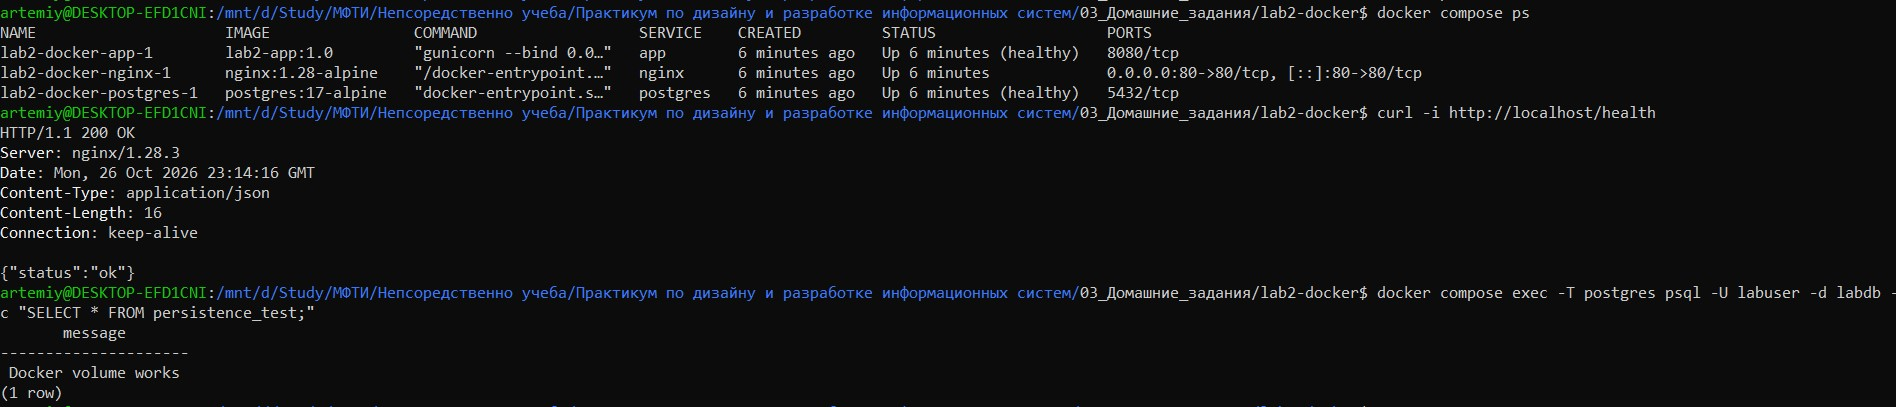
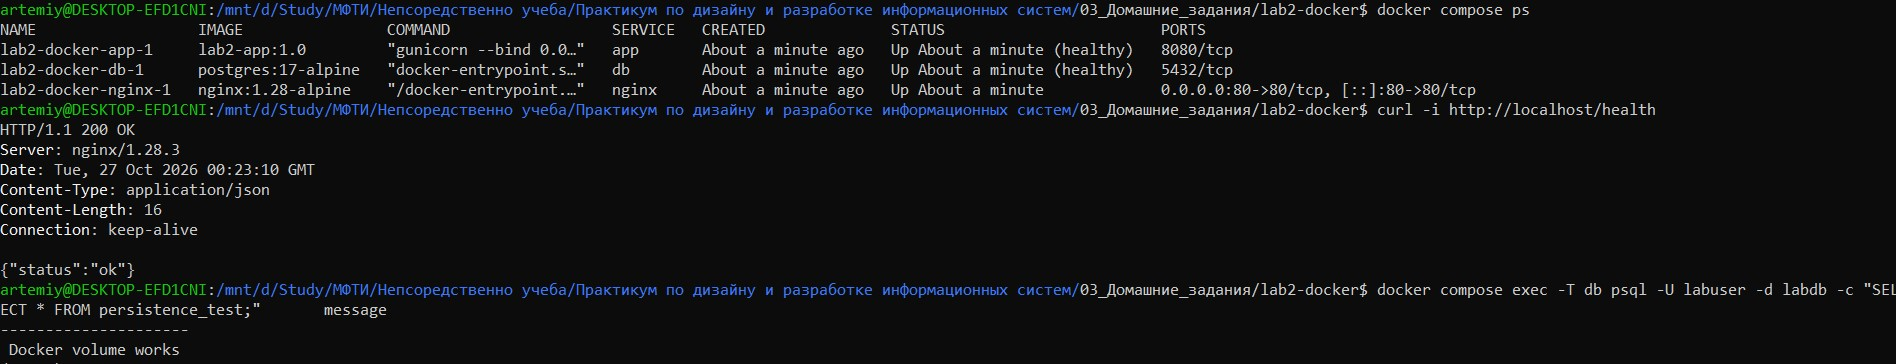
Update lab 2

diff --git a/README.md b/README.md
@@ -57,7 +57,7 @@ PostgreSQL находится во внутренней сети backend.
 
 Создать таблицу и запись:
 
-docker compose exec -T postgres psql -U labuser -d labdb -c "CREATE TABLE IF NOT EXISTS persistence_test (message TEXT NOT NULL); INSERT INTO persistence_test VALUES ('Docker volume works');"
+docker compose exec -T db psql -U labuser -d labdb -c "CREATE TABLE IF NOT EXISTS persistence_test (message TEXT NOT NULL); INSERT INTO persistence_test VALUES ('Docker volume works');"
 
 Пересоздать контейнеры:
 
@@ -66,7 +66,7 @@ docker compose up -d
 
 Проверить сохранность записи:
 
-docker compose exec -T postgres psql -U labuser -d labdb -c "SELECT * FROM persistence_test;"
+docker compose exec -T db psql -U labuser -d labdb -c "SELECT * FROM persistence_test;"
 
 Данные сохраняются в именованном томе pgdata.
 
@@ -78,10 +78,39 @@ docker login
 
 Запустить скрипт:
 
-./build-and-push.sh <dockerhub-user>/lab2-app:1.0
+./build-and-push.sh YOUR_DOCKERHUB_USERNAME/lab2-app:1.0
 
 ## Остановка
 
 docker compose down
 
 Команда не удаляет именованный том с данными.
+
+## Проверка Docker #1 — запуск отдельного контейнера
+
+Собрать образ:
+
+```bash
+docker build -t lab2-app:1.0 .
+```
+
+Запустить приложение без Docker Compose:
+
+```bash
+docker run --rm -d --name lab2-standalone -p 8080:8080 lab2-app:1.0
+```
+
+Проверить HTTP 200:
+
+```bash
+curl -i http://localhost:8080/health
+```
+
+Остановить контейнер:
+
+```bash
+docker stop lab2-standalone
+```
+
+Конфигурация Compose использует актуальную Compose Specification,
+поэтому устаревшее поле version не указывается.
